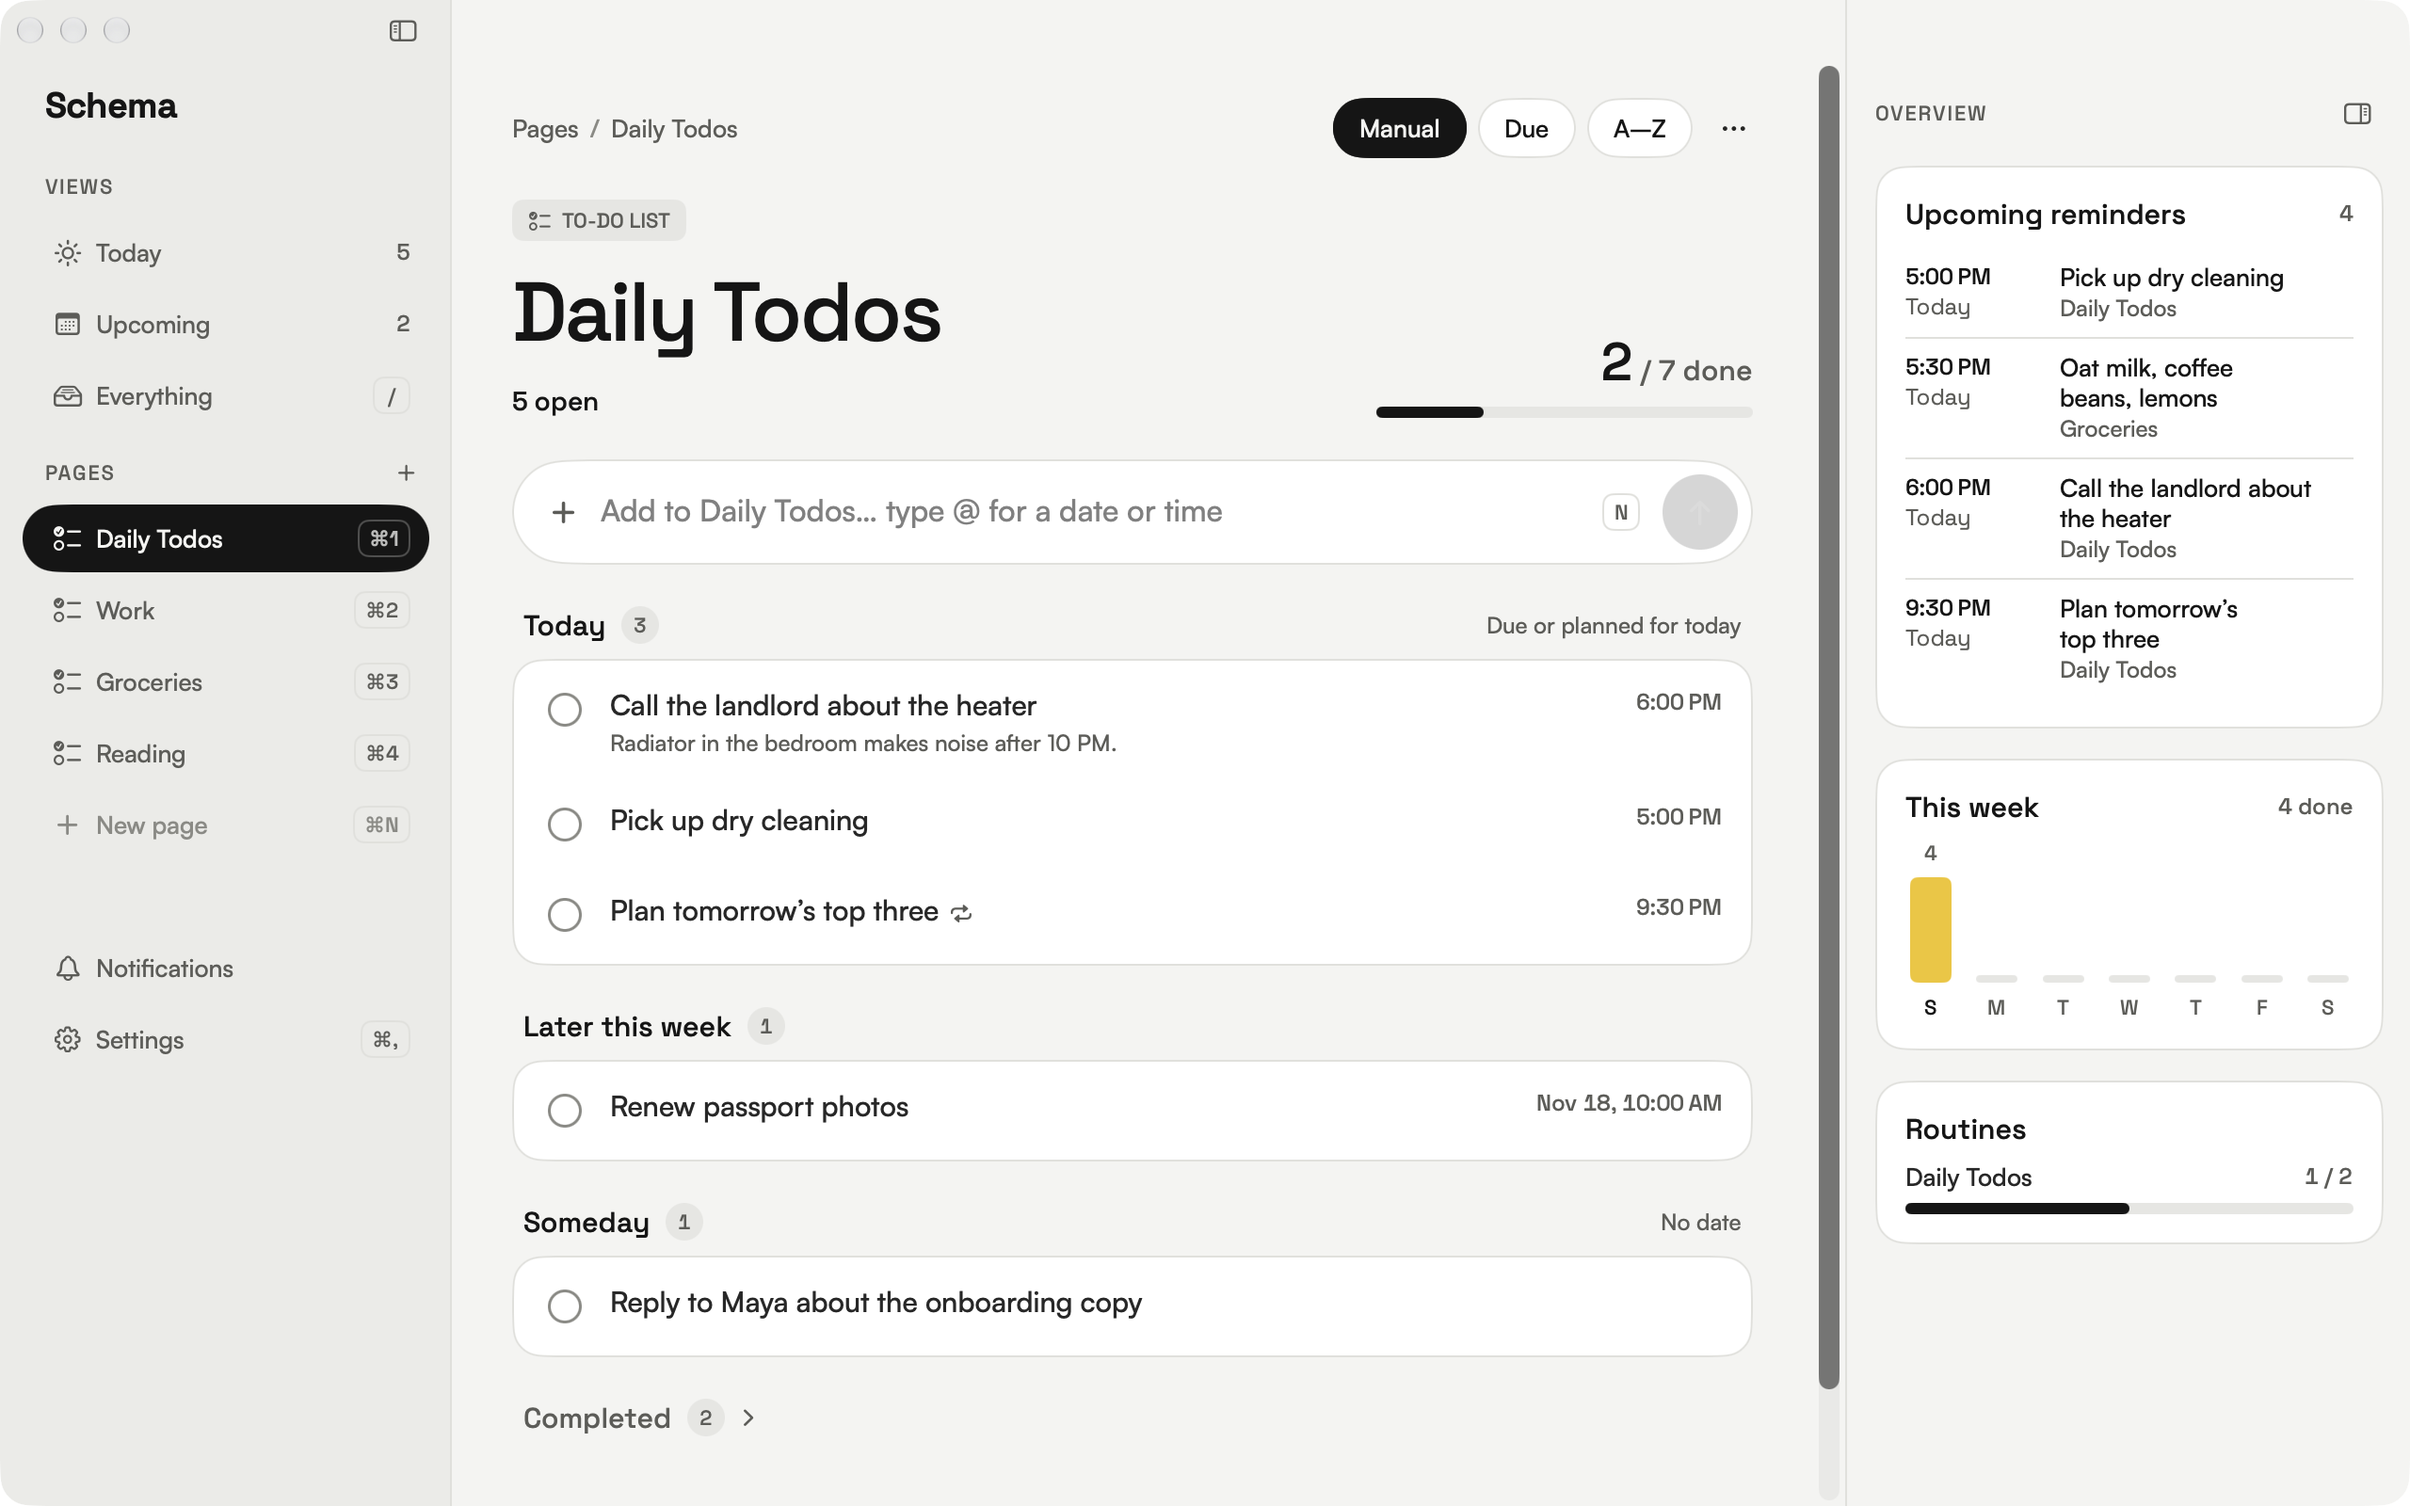
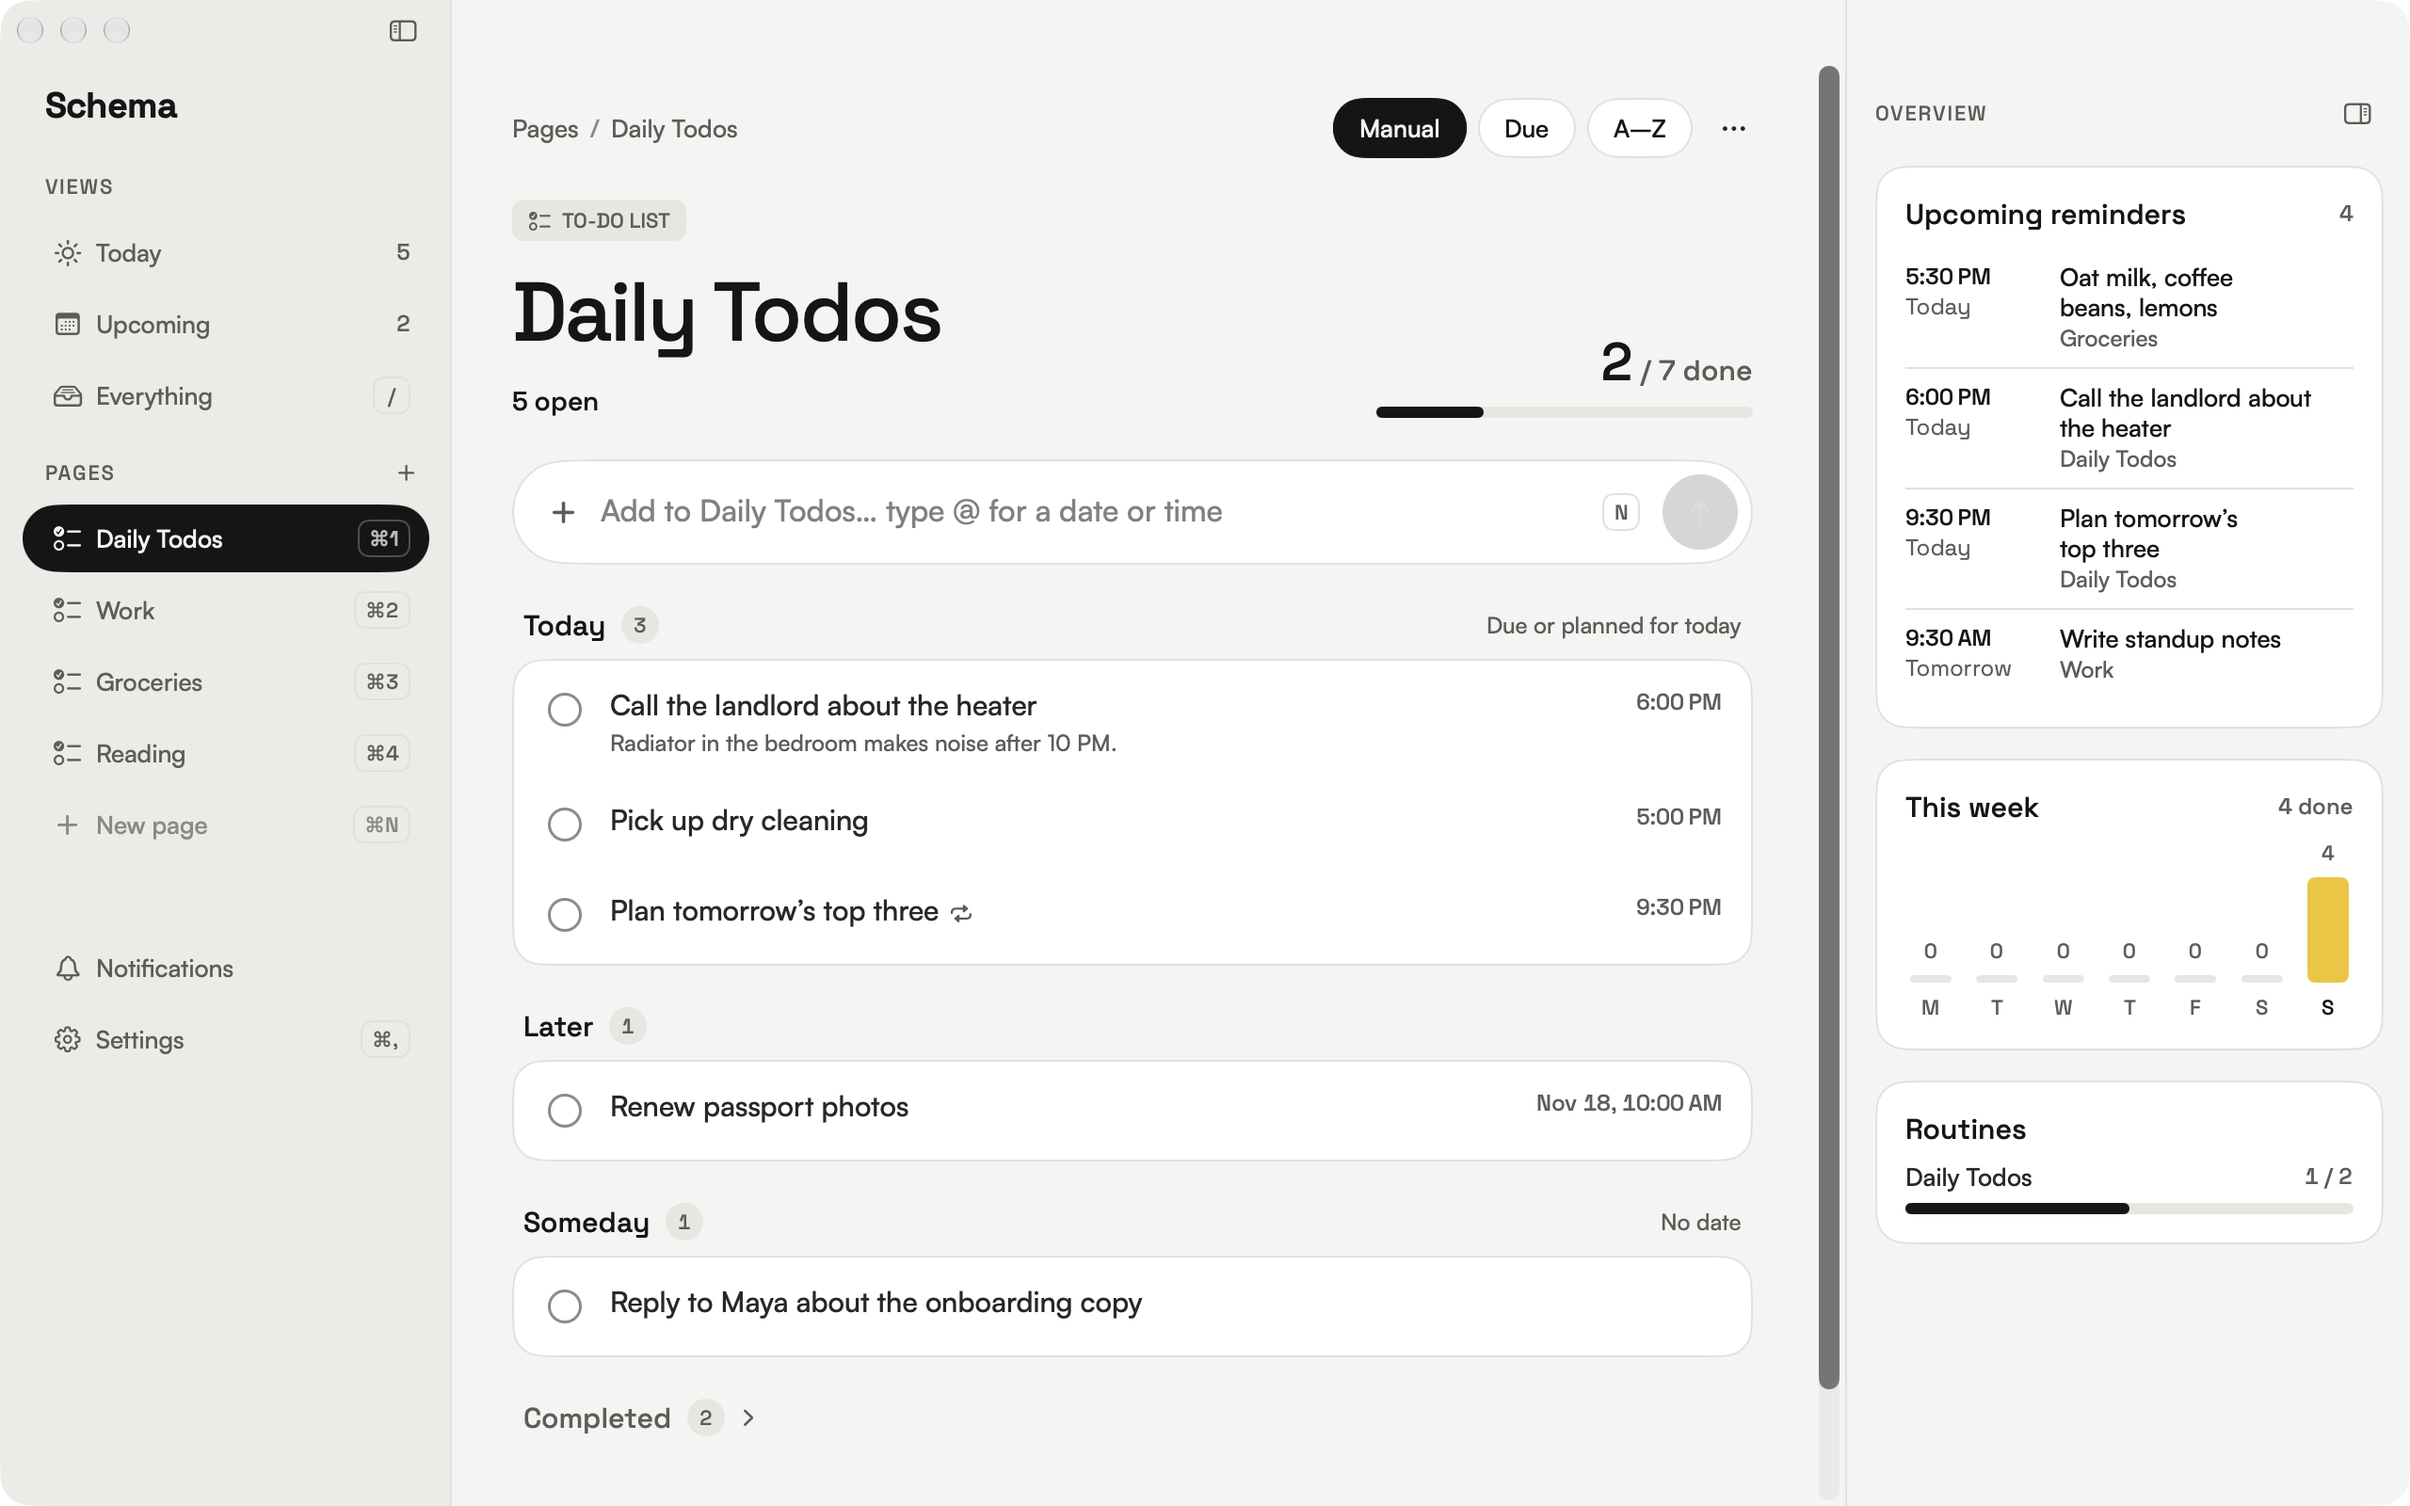
Start weeks on Monday, with a Settings choice
The week chart, This week tile and "Later this week" section now use a
Schema calendar whose first weekday comes from a new preference
(Monday by default, Sunday available) instead of the system locale.
Settings gets a Calendar section with a segmented "Week starts on"
control; the value lives on WorkspaceState so changing it redraws the
page. DEBUG -SchemaDemoSettings opens Settings for screenshots.

diff --git a/Schema/Core/Services/SchemaPreferences.swift b/Schema/Core/Services/SchemaPreferences.swift
@@ -13,6 +13,7 @@ enum SchemaPreferences {
         static let allowIndependentFollowerRoutineCompletion = "schema.preferences.allowIndependentFollowerRoutineCompletion"
         static let isSidebarCollapsed = "schema.preferences.isSidebarCollapsed"
         static let isDetailsPanelCollapsed = "schema.preferences.isDetailsPanelCollapsed"
+        static let weekStart = "schema.preferences.weekStart"
     }
 
     #if DEBUG
@@ -80,5 +81,42 @@ enum SchemaPreferences {
     static var isDetailsPanelCollapsed: Bool {
         get { defaults.bool(forKey: Key.isDetailsPanelCollapsed) }
         set { defaults.set(newValue, forKey: Key.isDetailsPanelCollapsed) }
+    }
+
+    /// First day of the week for the week chart and "Later this week". Monday unless changed.
+    static var weekStart: WeekStart {
+        get { defaults.string(forKey: Key.weekStart).flatMap(WeekStart.init(rawValue:)) ?? .monday }
+        set { defaults.set(newValue.rawValue, forKey: Key.weekStart) }
+    }
+}
+
+enum WeekStart: String, CaseIterable, Identifiable {
+    case monday
+    case sunday
+
+    var id: String { rawValue }
+
+    var label: String {
+        switch self {
+        case .monday: "Monday"
+        case .sunday: "Sunday"
+        }
+    }
+
+    /// `Calendar.firstWeekday` value (1 = Sunday, 2 = Monday).
+    var firstWeekday: Int {
+        switch self {
+        case .monday: 2
+        case .sunday: 1
+        }
+    }
+}
+
+extension Calendar {
+    /// The user's calendar with Schema's week start applied.
+    static func schema(weekStart: WeekStart = SchemaPreferences.weekStart) -> Calendar {
+        var calendar = Calendar.current
+        calendar.firstWeekday = weekStart.firstWeekday
+        return calendar
     }
 }

diff --git a/Schema/macOS/Views/SettingsView.swift b/Schema/macOS/Views/SettingsView.swift
@@ -12,6 +12,7 @@ struct SettingsView: View {
     let lists: [SchemaList]
     let notificationService: any NotificationServiceProtocol
     @Binding var allowIndependentFollowerRoutineCompletion: Bool
+    @Binding var weekStart: WeekStart
 
     @State private var authorizationStatus: NotificationAuthorizationStatus = .notDetermined
     @State private var isRequestingAuthorization = false
@@ -51,6 +52,24 @@ struct SettingsView: View {
                     }
                 }
                 .labelsHidden()
+            }
+
+            sectionDivider
+
+            settingsSection(title: "Calendar") {
+                settingsRow(title: "Week starts on") {
+                    Picker("Week starts on", selection: $weekStart) {
+                        ForEach(WeekStart.allCases) { option in
+                            Text(option.label).tag(option)
+                        }
+                    }
+                    .pickerStyle(.segmented)
+                    .labelsHidden()
+                    .fixedSize()
+                }
+                Text("Used for This week and the Later this week section.")
+                    .font(.satoshi(12))
+                    .foregroundStyle(SchemaTheme.inkMuted)
             }
 
             sectionDivider

diff --git a/Schema/Core/Models/TaskSection.swift b/Schema/Core/Models/TaskSection.swift
@@ -35,7 +35,7 @@ enum TaskSection: Int, CaseIterable, Identifiable {
         }
     }
 
-    static func section(for task: SchemaTask, now: Date = .now, calendar: Calendar = .current) -> TaskSection {
+    static func section(for task: SchemaTask, now: Date = .now, calendar: Calendar = .schema()) -> TaskSection {
         let startOfToday = calendar.startOfDay(for: now)
         let startOfTomorrow = calendar.date(byAdding: .day, value: 1, to: startOfToday) ?? now
         let startOfNextWeek = calendar.dateInterval(of: .weekOfYear, for: now)?.end ?? startOfTomorrow
@@ -53,7 +53,7 @@ enum TaskSection: Int, CaseIterable, Identifiable {
 
     /// Non-empty sections in display order. Tasks keep their incoming order
     /// within a section.
-    static func group(_ tasks: [SchemaTask], now: Date = .now, calendar: Calendar = .current) -> [TaskSectionGroup] {
+    static func group(_ tasks: [SchemaTask], now: Date = .now, calendar: Calendar = .schema()) -> [TaskSectionGroup] {
         let byID = Dictionary(tasks.map { ($0.id, $0) }, uniquingKeysWith: { first, _ in first })
         var sectionByID: [UUID: TaskSection] = [:]
 

diff --git a/Schema/macOS/Views/WorkspaceView.swift b/Schema/macOS/Views/WorkspaceView.swift
@@ -35,13 +35,19 @@ struct WorkspaceView: View {
         ))
         switch listViewModel.smartView {
         case .today: return TaskSection.groupByPage(open, pages: listViewModel.pages(from: lists))
-        case .upcoming: return TaskSection.groupByDay(open)
-        case nil: return TaskSection.group(open)
+        case .upcoming: return TaskSection.groupByDay(open, calendar: calendar)
+        case nil: return TaskSection.group(open, calendar: calendar)
         }
     }
 
+    /// Reads the week-start setting through `workspace`, so changing it in
+    /// Settings redraws the sections and the week chart.
+    var calendar: Calendar {
+        Calendar.schema(weekStart: workspace.weekStart)
+    }
+
     var dayStats: DayStats {
-        DayStats(tasks: allTasks, pages: listViewModel.pages(from: lists))
+        DayStats(tasks: allTasks, pages: listViewModel.pages(from: lists), calendar: calendar)
     }
 
     /// Open tasks in display order (section by section). Keyboard navigation

diff --git a/Schema/macOS/Views/ContentView.swift b/Schema/macOS/Views/ContentView.swift
@@ -90,7 +90,8 @@ struct ContentView: View {
                 listViewModel: listViewModel,
                 lists: lists,
                 notificationService: notificationService,
-                allowIndependentFollowerRoutineCompletion: $workspace.allowIndependentFollowerRoutineCompletion
+                allowIndependentFollowerRoutineCompletion: $workspace.allowIndependentFollowerRoutineCompletion,
+                weekStart: $workspace.weekStart
             )
         }
         .task {
@@ -119,6 +120,9 @@ struct ContentView: View {
         }
         if DemoData.isEnabled, DemoData.opensUpcoming {
             listVM.selectSmartView(.upcoming, from: lists)
+        }
+        if DemoData.isEnabled, DemoData.opensSettings {
+            workspace.showSettings = true
         }
         if DemoData.isEnabled, DemoData.opensFirstPage {
             listVM.selectList(listVM.pages(from: lists).first)

diff --git a/Schema/Core/Models/DayStats.swift b/Schema/Core/Models/DayStats.swift
@@ -44,7 +44,7 @@ struct DayStats {
 
     var totalToday: Int { doneToday + dueToday }
 
-    init(tasks: [SchemaTask], pages: [SchemaList], now: Date = .now, calendar: Calendar = .current, reminderLimit: Int = 4) {
+    init(tasks: [SchemaTask], pages: [SchemaList], now: Date = .now, calendar: Calendar = .schema(), reminderLimit: Int = 4) {
         doneToday = tasks.count { $0.wasCompleted(onSameDayAs: now, calendar: calendar) }
 
         let openToday = tasks.filter { !$0.isCompleted && TaskSection.section(for: $0, now: now, calendar: calendar) == .today }

diff --git a/Schema/macOS/State/WorkspaceState.swift b/Schema/macOS/State/WorkspaceState.swift
@@ -48,6 +48,9 @@ final class WorkspaceState {
     var taskDetailEditor: TaskDetailEditor?
     var isEditingListName = false
     var sequenceValidationAlert: RoutineSequenceValidationResult?
+    var weekStart = SchemaPreferences.weekStart {
+        didSet { SchemaPreferences.weekStart = weekStart }
+    }
     var allowIndependentFollowerRoutineCompletion = SchemaPreferences.allowIndependentFollowerRoutineCompletion {
         didSet {
             SchemaPreferences.allowIndependentFollowerRoutineCompletion = allowIndependentFollowerRoutineCompletion

diff --git a/Schema/Core/Persistence/DemoData.swift b/Schema/Core/Persistence/DemoData.swift
@@ -26,6 +26,8 @@ enum DemoData {
     static let opensToday = CommandLine.arguments.contains("-SchemaDemoToday")
     /// `-SchemaDemoUpcoming` opens on the Upcoming view.
     static let opensUpcoming = CommandLine.arguments.contains("-SchemaDemoUpcoming")
+    /// `-SchemaDemoSettings` opens Settings.
+    static let opensSettings = CommandLine.arguments.contains("-SchemaDemoSettings")
 
     /// `-SchemaDemoPage` opens on the first page (Daily Todos).
     static let opensFirstPage = CommandLine.arguments.contains("-SchemaDemoPage")

diff --git a/Schema/Core/Models/SmartView.swift b/Schema/Core/Models/SmartView.swift
@@ -32,7 +32,7 @@ enum SmartView: String, CaseIterable, Identifiable {
     /// Today: open tasks due today, overdue, or routines that run today;
     /// plus tasks completed today.
     /// Upcoming: open tasks due after today.
-    func includes(_ task: SchemaTask, now: Date = .now, calendar: Calendar = .current) -> Bool {
+    func includes(_ task: SchemaTask, now: Date = .now, calendar: Calendar = .schema()) -> Bool {
         switch self {
         case .today:
             if task.isCompleted {

diff --git a/CHANGELOG.md b/CHANGELOG.md
@@ -34,6 +34,7 @@ All notable changes to Schema are documented in this file.
 - Tasks now record when they were completed (#16). The data migrates to schema V5 automatically; tasks completed before the update keep an empty completion date. This feeds Done today and the week chart (#17).
 - Today is now a dashboard (#17): the date as title, tiles for Done today (with progress), Due today (with the next time) and This week, then today's tasks grouped by page. Today also counts routines that run today and tasks completed today.
 - Upcoming lists future tasks grouped by day (Tomorrow, weekday, then date).
+- Weeks start on Monday. Settings → Calendar → Week starts on can switch to Sunday; it applies to This week and the Later this week section.
 - With no task open, the right panel shows an overview: the next four reminders, completions per day this week (today in yellow) and today's routines per page.
 
 ## [0.3.0] — 2026-11-12
